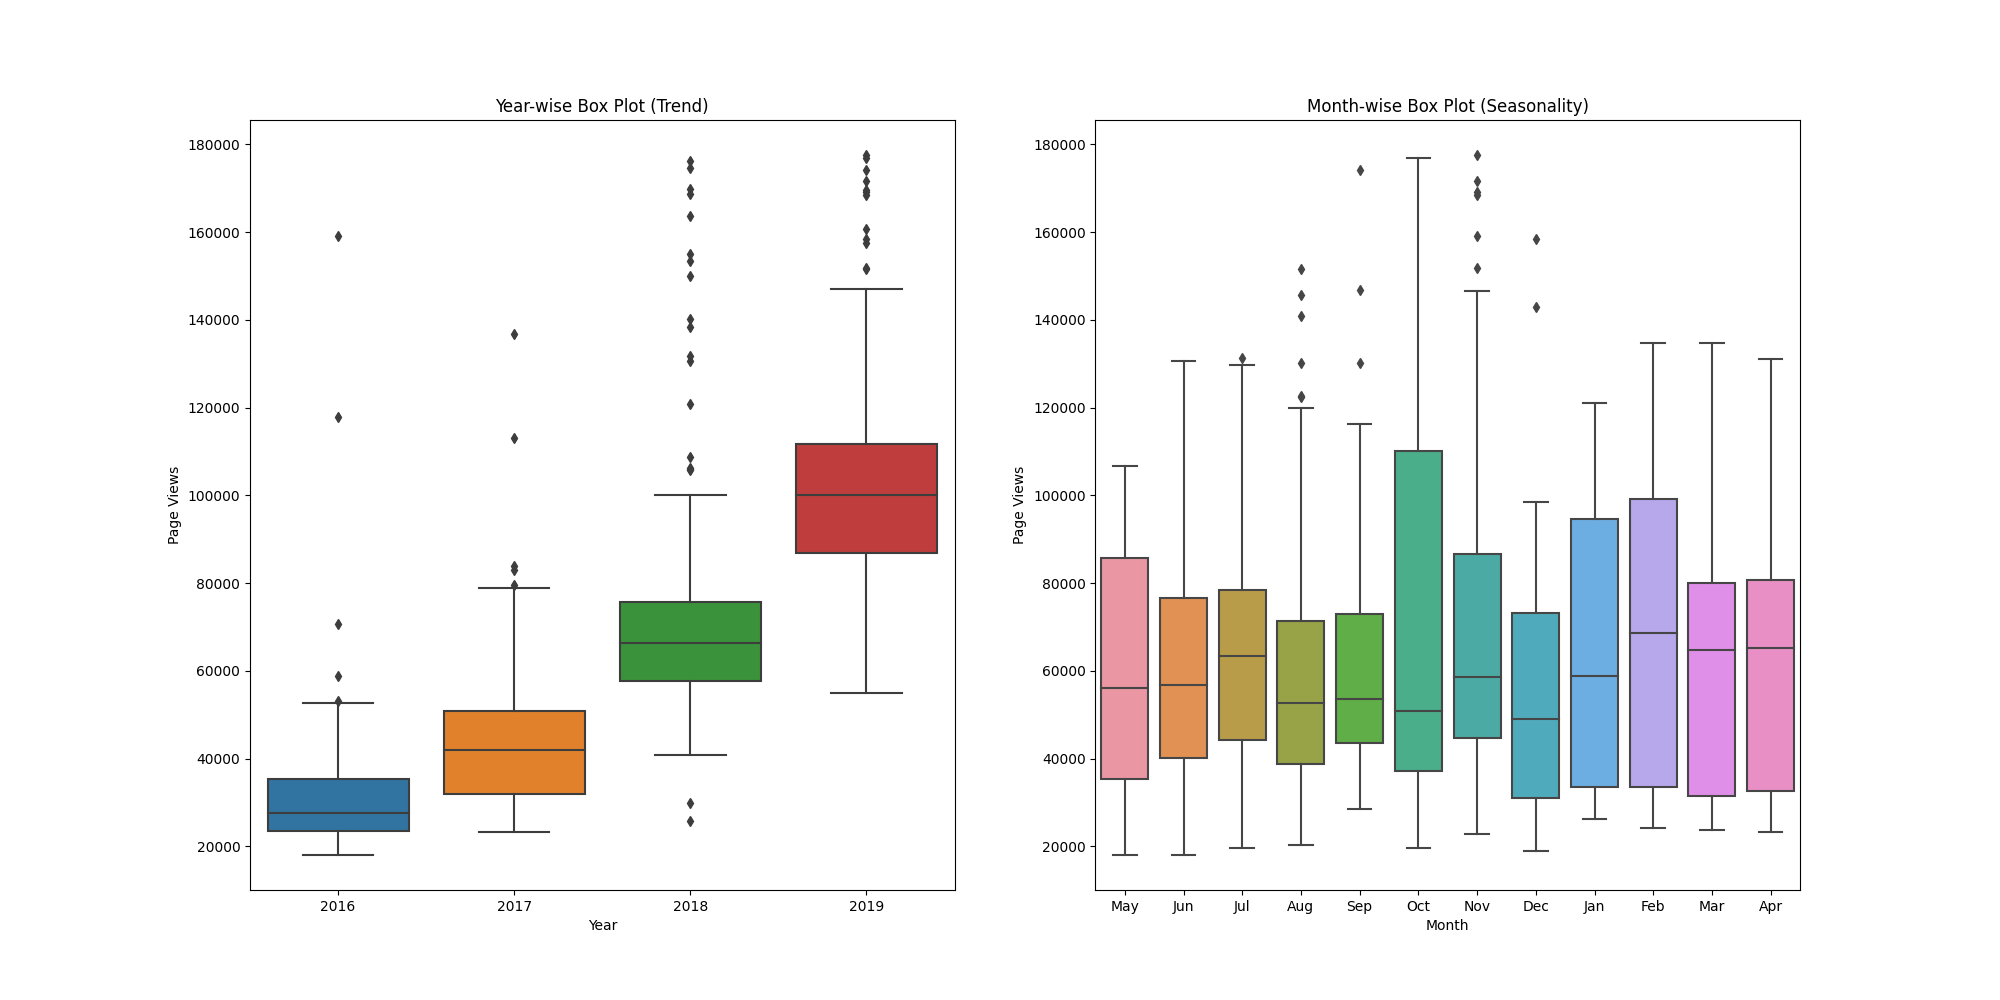
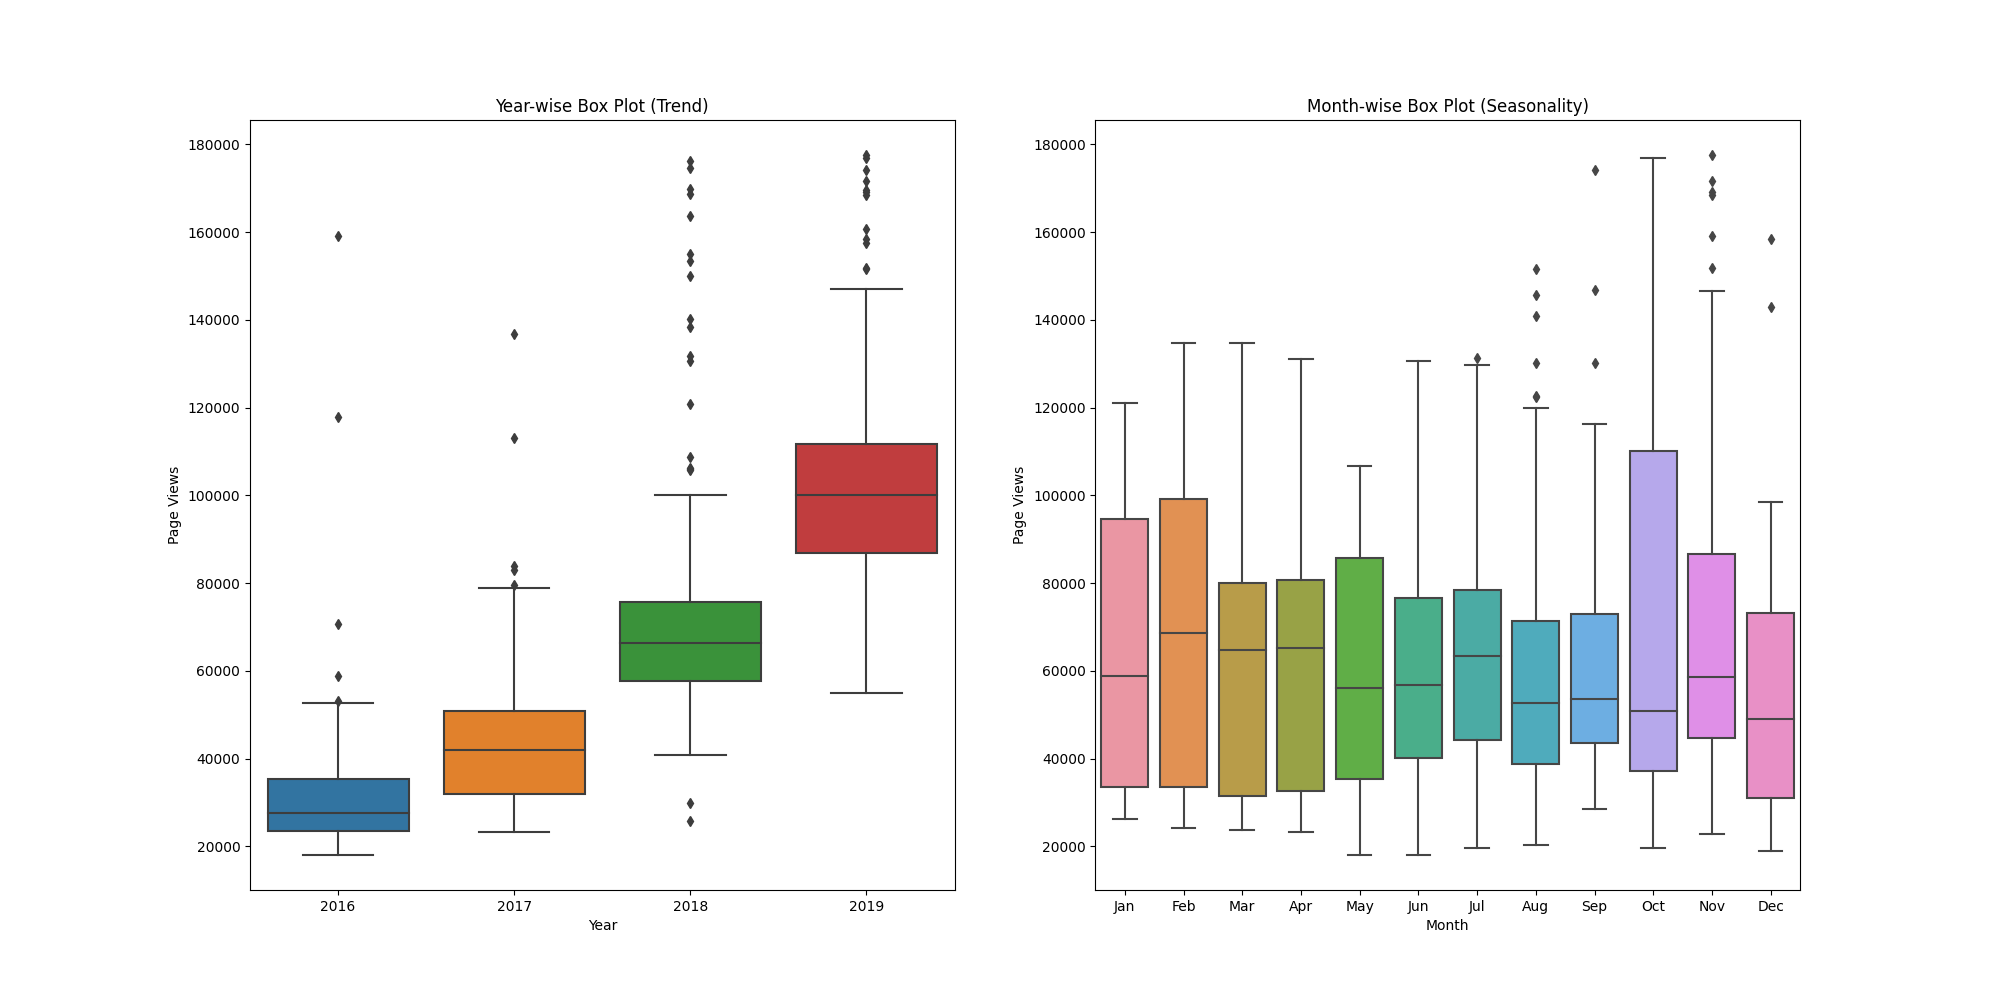
done

diff --git a/time_series_visualizer.py b/time_series_visualizer.py
@@ -91,6 +91,8 @@ def draw_box_plot():
     # Draw box plots (using Seaborn)
     df_box['smonth'] = [d.strftime('%m') for d in df_box.date]
     
+    df_box = df_box.sort_values(by='smonth')
+    
     fig, (ax1, ax2) = plt.subplots(1, 2)
     fig.set_figwidth(20)
     fig.set_figheight(10)
